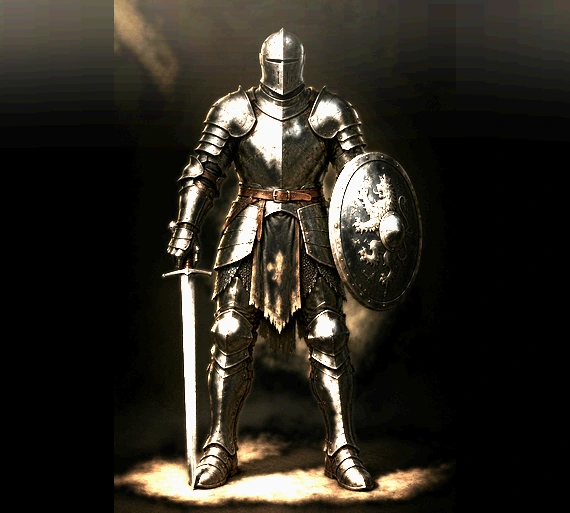
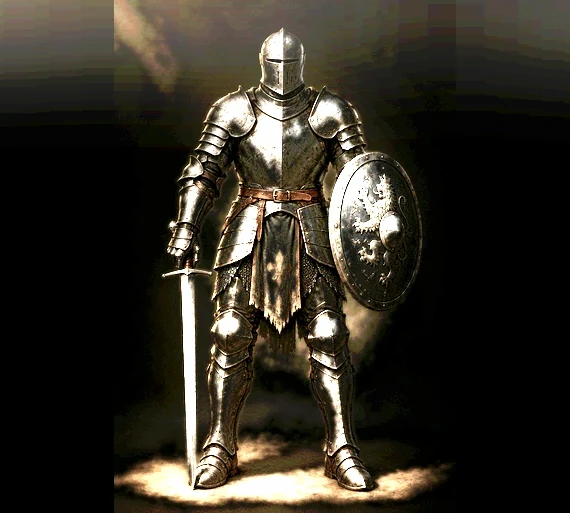
Aura meno "caffè" e personaggio leggibile anche senza aura
Ste: "vedi cosa c'e' da migliorare, poi forse anche quelli senza aura adesso
sono troppo scuri invece, boh non lo so fai tu".

Aveva ragione su due cose diverse, e misurandole la seconda era diversa da
come sembrava a occhio.

1) L'AURA TINGEVA GLI ANGOLI

Il gradiente dell'aria calda era 118% x 108%: piu' grande del riquadro. Con la
miscela `screen` sul nero quegli angoli si accendevano di marrone, e il risultato
non era "una figura con della luce intorno" ma "un riquadro color caffe'".
Ora e' stretto (72% x 64%), quindi l'aria resta attorno al personaggio e i
quattro angoli tornano neri.

2) SENZA AURA IL VUOTO RESTAVA VUOTO

Misurando le tre immagini non e' uscito quello che sembrava: il Berserker e' il
PIU' luminoso dei tre (media 69), non il piu' scuro. Quello scuro e' l'Assassino
(54). Il problema vero e' un altro: meta' del disegno sta sotto il 40 di
luminosita' e il personaggio galleggia in un vuoto nero. Ed e' per questo che la
versione CON l'aura sembrava meglio: non perche' la figura fosse piu' luminosa,
ma perche' l'oro RIEMPIEVA quel vuoto.

Adesso il vuoto si riempie anche senza aura, ma di VIOLA, il colore della scena:
l'oro resta alla ricompensa, il viola e' la strada. Chi arriva a 75 giorni vede
cambiare il COLORE della luce, non solo quanto ne ha.

3) LE FOTO ALZATE, MA MISURATE

Non a occhio: curva dolce (smoothstep, niente angoli) sui tre finali, che lascia
il nero a nero e alza i mezzitoni, piu' un filo di colore._media e contrasto:
[…]

diff --git a/stile.css b/stile.css
@@ -1512,12 +1512,54 @@ body:has(.sfondo-dialogo) .avviso {
   border-color: var(--bordo);
 }
 .personaggio-scena-grafica.con-foto .personaggio-ritratto {
-  position: static;
+  /* `relative` serve per la luce di dietro qui sotto: senza, la foto e' un elemento
+     "statico" e lo pseudo-elemento passerebbe SOPRA, colorando il personaggio invece
+     che gli spalle. Con z-index 1 la foto resta davanti e la luce resta dietro. */
+  position: relative;
+  z-index: 1;
   display: block;
   width: 100%;
   height: auto; /* l'altezza la decide la foto: non si può tagliare */
   transform: none;
   filter: contrast(1.04) saturate(1.02) brightness(1.04);
+}
+
+/* ---------------------------------------------------------------------------
+ * LA LUCE DIETRO LA FIGURA, QUANDO NON C'È L'AURA
+ * ---------------------------------------------------------------------------
+ * Ste (12/10/2026): "quelli senza aura adesso sono troppo scuri invece".
+ *
+ * Misurando le tre immagini non è uscito quello che sembrava a occhio. Il
+ * Berserker è il PIÙ luminoso dei tre (media 69), non il più scuro: quello
+ * scuro è l'Assassino (54). Il problema vero è un altro, ed è nel mezzo:
+ * metà dell'immagine sta sotto il 40 di luminosità e il personaggio galleggia
+ * in un vuoto nero.
+ *
+ * Ed è per questo che la versione CON l'aura sembrava più bella: non perché la
+ * figura fosse più luminosa, ma perché l'oro RIEMPIEVA quel vuoto. Tolto l'oro,
+ * si è visto che il vuoto era lì anche prima.
+ *
+ * Qui si riempie anche senza aura, ma di un colore DELLA SCENA e non della
+ * ricompensa: viola tenue dietro alle spalle e un'eco ai piedi. Oro vuol dire
+ * "divina" e resta roba del livello finale; il viola è la strada, è il colore
+ * dell'app. Così chi è a 70 giorni vede il personaggio illuminato, e chi arriva
+ * a 75 vede cambiare il COLORE della luce, non solo la sua quantità. */
+.personaggio-scena-grafica.con-foto:not(.personaggio-aura)::before {
+  content: '';
+  position: absolute;
+  inset: 0;
+  z-index: 0;
+  pointer-events: none;
+  background:
+    /* dietro le spalle: il vuoto prende forma */
+    radial-gradient(54% 42% at 50% 38%,
+      color-mix(in srgb, var(--tinta) 30%, transparent) 0%,
+      transparent 78%),
+    /* un'eco del pavimento, sotto i piedi */
+    radial-gradient(70% 18% at 50% 95%,
+      color-mix(in srgb, var(--tinta) 24%, transparent) 0%,
+      transparent 84%);
+  filter: blur(26px);
 }
 
 /* ---------------------------------------------------------------------------
@@ -1621,10 +1663,20 @@ body:has(.sfondo-dialogo) .avviso {
     radial-gradient(66% 17% at 50% 94%,
       color-mix(in srgb, var(--aura) calc(70% * var(--forza)), transparent) 0%,
       transparent 80%),
-    /* l'aria calda intorno: arriva fino al bordo, in alto e in basso */
-    radial-gradient(118% 108% at 50% 50%,
-      color-mix(in srgb, var(--aura) calc(21% * var(--forza)), transparent) 0%,
-      transparent 95%);
+    /* l'aria calda intorno: TIGHT, non a pieno riquadro.
+     *
+     * Qui c'era `radial-gradient(118% 108% at 50% 50%, ...)` e cioè un gradiente
+     * più grande del riquadro stesso: arrivava fino agli angoli e li tingeva di
+     * marrone. Con la miscela `screen` quello è il danno peggiore, perché lo
+     * schermo sul nero lo accende più che su qualsiasi altro colore: si vedeva
+     * un riquadro color caffè invece di una figura con della luce intorno.
+     *
+     * Riducendolo a 72% × 64% l'aria resta attorno al personaggio e i quattro
+     * angoli tornano neri, che è quello che fa sembrare la foto una foto e non
+     * una vignetta. */
+    radial-gradient(72% 64% at 50% 46%,
+      color-mix(in srgb, var(--aura) calc(18% * var(--forza)), transparent) 0%,
+      transparent 88%);
   filter: blur(18px);
   animation: aura-pulse 4.6s ease-in-out infinite;
 }
@@ -1659,9 +1711,19 @@ body:has(.sfondo-dialogo) .avviso {
     inset 0 0 48px -26px color-mix(in srgb, var(--aura) calc(46% * var(--forza)), transparent);
 }
 
+/* IL FIATO DELL'AURA.
+ *
+ * Prima andava da .62 a 1: una differenza del 60%, cioè ogni 4,6 secondi l'aura
+ * partiva piu' accesa e poi tornava giu'. Ste se n'e' accorto e ha detto che era
+ * "troppo acceso": non tanto per il livello di base, quanto per quei BALZI. Una
+ * luce che sale e scende tanto sembra una lampadina che si accende, non una
+ * figura con dell'alone.
+ *
+ * Adesso il fiato e' del 22%: si vede che la luce respira, ma il salto non
+ * esiste. Il massimo e' quello che dicono i numeri sopra, non un di piu'. */
 @keyframes aura-pulse {
-  0%, 100% { opacity: .62; transform: scale(.985); }
-  50%      { opacity: 1;   transform: scale(1.02); }
+  0%, 100% { opacity: .78; transform: scale(.99); }
+  50%      { opacity: 1;   transform: scale(1.012); }
 }
 /* I FAZZI SI MUOVONO POCO, E PIU' LENTI.
  *
@@ -1678,8 +1740,8 @@ body:has(.sfondo-dialogo) .avviso {
  * che respira, non che trascini.
  */
 @keyframes aura-fassi {
-  from { transform: translateX(-5px) rotate(-.5deg); opacity: .66; }
-  to   { transform: translateX(5px)  rotate(.5deg);  opacity: .82; }
+  from { transform: translateX(-5px) rotate(-.5deg); opacity: .86; }
+  to   { transform: translateX(5px)  rotate(.5deg);  opacity: 1; }
 }
 
 /* IL CONTORNO DORATO: la parte che rende credibile la luce. */
@@ -1769,8 +1831,8 @@ body:has(.sfondo-dialogo) .avviso {
   animation: aura-colonna 7.5s ease-in-out infinite;
 }
 @keyframes aura-colonna {
-  0%, 100% { opacity: .72; transform: scaleX(.92); }
-  50%      { opacity: 1;   transform: scaleX(1.06); }
+  0%, 100% { opacity: .80; transform: scaleX(.94); }
+  50%      { opacity: 1;   transform: scaleX(1.05); }
 }
 
 /* LA FOTO STA SOPRA LA COLONNA, e sotto il resto dell'aura. */
@@ -1798,9 +1860,9 @@ body:has(.sfondo-dialogo) .avviso {
   mix-blend-mode: screen;
   background: linear-gradient(104deg,
     transparent 45%,
-    color-mix(in srgb, var(--aura) 16%, transparent) 49%,
-    rgba(255, 250, 230, .22) 50.5%,
-    color-mix(in srgb, var(--aura) 13%, transparent) 52%,
+    color-mix(in srgb, var(--aura) calc(28% * var(--forza)), transparent) 49%,
+    rgba(255, 250, 230, calc(.38 * var(--forza))) 50.5%,
+    color-mix(in srgb, var(--aura) calc(22% * var(--forza)), transparent) 52%,
     transparent 56%);
   animation: aura-lustro 4.5s ease-in-out infinite;
 }

diff --git a/test/avatar-stati.test.js b/test/avatar-stati.test.js
@@ -380,6 +380,44 @@ test('R10s. l\'aura ha luce, raggi e scintille, e rispetta chi non vuole le anim
     'la forza dell\'aura e\' un numero solo');
   const usiForza = [...css.matchAll(/calc\(\d+% \* var\(--forza\)\)/g)].length;
   assert.ok(usiForza >= 8, `le intensita' devono passare da --forza, ne' usano ${usiForza}`);
+
+  // Ste (12/10/2026): "vedi cosa c'e' da migliorare, poi forse anche quelli senza
+  // aura adesso sono troppo scuri invece". Due difetti diversi, due correzioni diverse.
+  //
+  // 1) L'AURA tingeva gli ANGOLI. Il gradiente dell'aria era 118% x 108%, piu' grande
+  //    del riquadro, e con la miscela `screen` sul nero quegli angoli si accendevano
+  //    di marrone: si vedeva un riquadro color caffe' invece di una figura con della
+  //    luce intorno. Ora e' stretto, quindi gli angoli restano neri.
+  const ariaLarga = css.replace(/\/\*[\s\S]*?\*\//g, '').match(/radial-gradient\(1[0-9]{2}%\s+1[0-9]{2}%[^\n]*\n[^\n]*var\(--aura\)/);
+  assert.equal(ariaLarga, null,
+    "l'aria dell'aura non puo' essere piu' grande del riquadro: tingerebbe gli angoli");
+  assert.match(css, /radial-gradient\(72% 64% at 50% 46%/,
+    "l'aria dell'aura sta attorno alla figura");
+
+  // 2) SENZA AURA IL VUOTO RESTAVA VUOTO. Misurando le immagini: meta' del disegno sta
+  //    sotto il 40 di luminosita' e il personaggio galleggia nel nero. La versione con
+  //    l'aura sembrava piu' bella non perche' la figura fosse piu' luminosa, ma perche'
+  //    l'oro RIEMPIEVA quel vuoto. Ora anche senza aura c'e' una luce, ma VIOLA: l'oro
+  //    resta alla ricompensa, il viola e' la strada. E come si capisce dai colori usati.
+  assert.match(css, /con-foto:not\(\.personaggio-aura\)::before/,
+    "anche senza aura il vuoto dietro la figura va riempito");
+  const luceBase = css.match(/con-foto:not\(\.personaggio-aura\)::before\s*\{[\s\S]*?\n\}/);
+  assert.ok(luceBase, 'la luce di base deve esistere');
+  assert.match(luceBase[0], /var\(--tinta\)/,
+    'la luce senza aura e\' del colore della scena, non oro: l\'oro e\' la ricompensa');
+  assert.doesNotMatch(luceBase[0], /var\(--aura\)/,
+    'senza aura non puo\' esserci oro: altrimenti la ricompensa la vedi prima di averla');
+  // E la foto deve stare DAVANTI alla luce, altrimenti la luce la tinge invece di
+  // accenderle le spalle: serve `relative` + z-index, non `static`.
+  assert.match(css, /con-foto \.personaggio-ritratto\s*\{[^}]*position:\s*relative[^}]*z-index:\s*1/,
+    'la foto sta davanti alla luce di base');
+
+  // Il bagliore era l'unico strato sfuggito all'interruttore: restava a piena forza
+  // mentre tutto il resto scendeva. Ora passa anche lui da --forza.
+  const lustro = css.match(/\.aura-lustro\s*\{[\s\S]*?\n\}/);
+  assert.ok(lustro && !/var\(--aura\)\s+\d+%/.test(lustro[0]),
+    'il bagliore non puo\' avere numeri propri: deve dipendere da --forza come gli altri');
+
   // L'aura e' una ricompensa: dev'essere d'oro in tutte e tre le classi, altrimenti
   // su due classi sembra parte del personaggio e su una no.
   assert.match(css, /--aura:\s*var\(--giallo/, 'il colore dell\'aura e\' il giallo dell\'app');

diff --git a/index.html b/index.html
@@ -32,7 +32,7 @@
 <meta name="apple-mobile-web-app-capable" content="yes">
 <meta name="apple-mobile-web-app-status-bar-style" content="black-translucent">
 <meta name="mobile-web-app-capable" content="yes">
-<link rel="stylesheet" href="./stile.css?v=131">
+<link rel="stylesheet" href="./stile.css?v=132">
 <!--
   LA VERSIONE NEL COLLEGAMENTO AL FOGLIO DI STILE.
 
@@ -63,7 +63,7 @@
      insieme, su 11 righe su 20: il bonus spingeva gli LP senza ricalcolare la
      divisione. Trovato leggendo il telefono. Il numero di versione sta in DUE
      file, questo e sw.js: i test I2 e I3 lo controllano. -->
-<script>window.PALESTRA_VERSIONE = '131';</script>
+<script>window.PALESTRA_VERSIONE = '132';</script>
 <script type="module" src="./src/app.js"></script>
 </body>
 </html>

diff --git a/sw.js b/sw.js
@@ -9,7 +9,7 @@
 // e il test I3 che sia quello dell'ultimo commit, altrimenti si alza la cache e si
 // lascia scritto il numero vecchio. E' successo due volte: nella v54 avevo alzato
 // solo questo file, e dopo la v55 avevo smesso di alzarlo del tutto.
-const VERSIONE = 'palestra-v131';
+const VERSIONE = 'palestra-v132';
 
 const FILE = [
   './',
@@ -24,7 +24,7 @@ const FILE = [
   // Il numero deve essere uguale a quello di `stile.css?v=` in index.html e a
   // `window.PALESTRA_VERSIONE`: se i tre non coincidono, l'app carica un foglio di
   // stile e dice un altro numero.
-  './stile.css?v=131',
+  './stile.css?v=132',
 './manifest.webmanifest',
   './manifest-p1.webmanifest',
   './manifest-p2.webmanifest',
